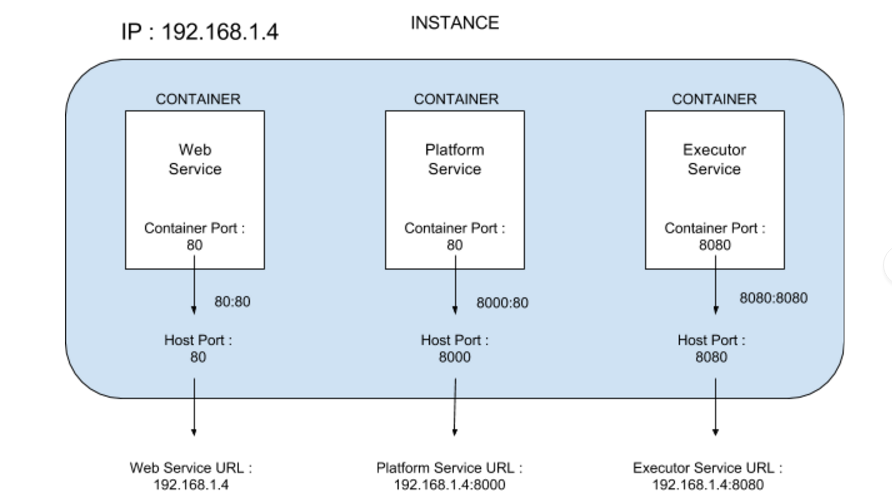
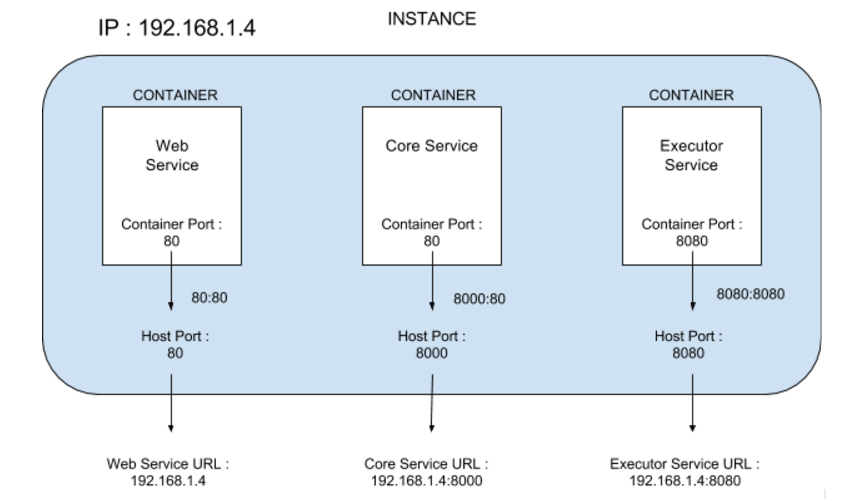
Updated platform to core

diff --git a/README.md b/README.md
@@ -59,7 +59,7 @@ git checkout
 ```
 #### Create volumes to share container data and logs
 
-* Run the following commands platform volume
+* Run the following commands core volume
 
 > Platform runs the core api services 
 
@@ -136,7 +136,7 @@ CloudMunch installs three distinct services as part of the installation. A UI se
 |Field | Field description|
 |------|------------------|
 | dockerfile | Docker file name to be used for frontend |
-| PLATFORM_URL | URL of platform (from platform service) ```Ex : If running on ip 192.168.1.4 then set it as 192.168.1.4:<port number on which platform service is exposed>```|
+| CORE_URL | URL of core service ```Ex : If running on ip 192.168.1.4 then set it as 192.168.1.4:<port number on which core service is exposed>```|
 | ports |  Port on which port 80 of container is mapped to host port <host_port>:<container_port>|
 	
 
@@ -144,11 +144,11 @@ CloudMunch installs three distinct services as part of the installation. A UI se
 
 |Field | Field description|
 |------|------------------|
-|dockerfile|Docker file name to be used for platform|
+|dockerfile|Docker file name to be used for core service|
 |CM_URL| URL of web ```Ex : If running on ip 192.168.1.4 then set it as 192.168.1.4:<port number on which web service is exposed>```|
 |EXECUTOR_URL|URL of executor service ```Ex : If running on ip 192.168.1.4 then set it as 192.168.1.4:<port number on which executor service is exposed>/jenkins```|
 |CM_DASH_URL|  URL of web service with dashboard ```Ex : If running on ip 192.168.1.4 then set it as 192.168.1.4:<port number on which web service is exposed>/dashboard```|
-|CM_API_URL|  URL of platform api ```Ex : If running on ip 192.168.1.4 then set it as 192.168.1.4:<port number on which platform service is exposed>/apitest2.php```|
+|CM_API_URL|  URL of core api ```Ex : If running on ip 192.168.1.4 then set it as 192.168.1.4:<port number on which core service is exposed>/apitest2.php```|
 |ports|  Port on which port 80 of container is mapped to host port. <host_port>:<container_port>|
 |volumes|  Volumes to be mapped inside container|
 
@@ -158,7 +158,7 @@ CloudMunch installs three distinct services as part of the installation. A UI se
 |------|-------------------|
 |dockerfile|  Docker file name to be used for frontend |
 |EXECUTOR_URL|  URL of executor service ``` Ex : If running on ip 192.168.1.4 then set it as 192.168.1.4:<port number on which executor service is exposed>/jenkins ```|
-|PLATFORM_URL|  URL of platform service ```Ex : If running on ip 192.168.1.4 then set it as 192.168.1.4:<port number on which platform service is exposed>```|
+|CORE_URL|  URL of core service ```Ex : If running on ip 192.168.1.4 then set it as 192.168.1.4:<port number on which core service is exposed>```|
 |ports|  Port on which port 8080 of container is mapped to host port ``` <host_port>:<container_port>```|
 
 #### Commands for starting / stopping container services
